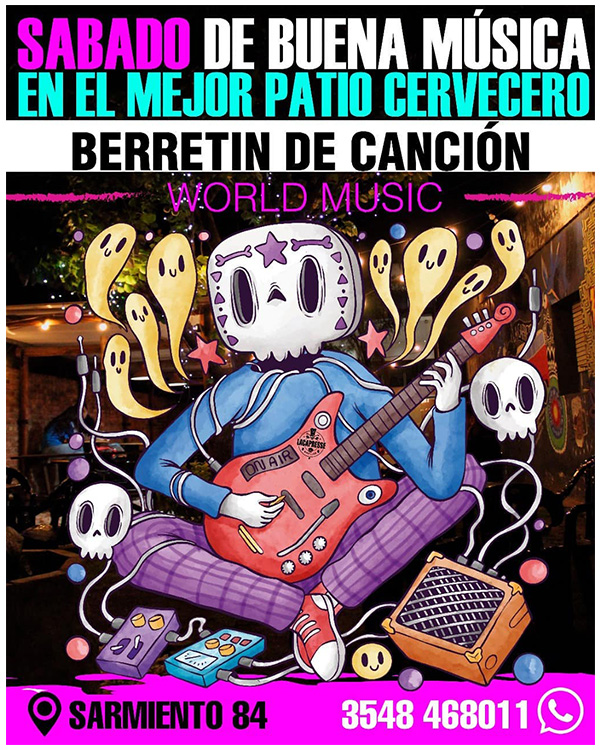
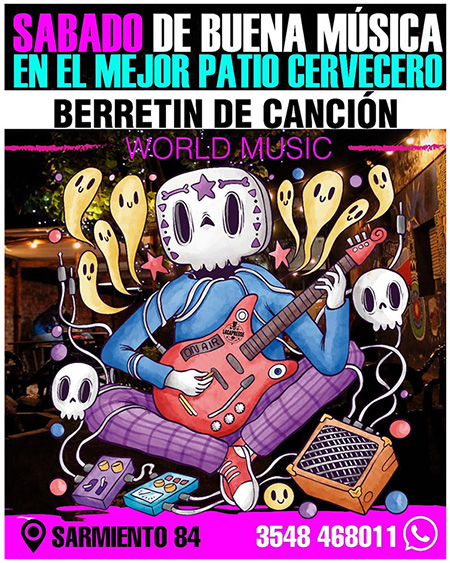
optimizacion de imagenes

diff --git a/pages/nosotros.html b/pages/nosotros.html
@@ -33,7 +33,7 @@
     </header>
     <main>
         <section class="cuerpoNosotros">
-            <img class="backNosotros" src="../assets/img/burguer2.png" alt="Hamburguesa en una tabla">
+            <img class="backNosotros" src="../assets/img/burguer2.jpg" alt="Hamburguesa en una tabla">
             <p>Somos una hamburguesería ubicada en la hermosa ciudad de La Falda, en la provincia de Córdoba. Somos reconocidos por nuestra deliciosa comida y un ambiente acogedor que te invita a disfrutar de una experiencia gastronómica única.<br>Además de ofrecer hamburguesas clásicas y gourmet, La Capresse también tiene en su menú una variedad de deliciosas opciones de pizzas, sanwiches y empanadas gourmet, preparados con ingredientes frescos y de alta calidad para garantizar una experiencia culinaria excepcional.<br>Pero eso no es todo lo que La Capresse tiene para ofrecer. Si buscas entretenimiento, este lugar es perfecto para vos. Todos los fines de semana, ofrecemos eventos de música en vivo, donde podrás disfrutar de tu comida favorita mientras escuchas a los mejores artistas locales.<br>Y si estás planeando un evento especial, también tenemos un food truck que puede acompañarte. Este camión de comida es ideal para bodas, fiestas de cumpleaños y cualquier otro evento en el que quieras sorprender a tus invitados con las mejores hamburguesas.<br><strong>Cocinamos con estilo, y sobre todo, cocinamos con pasión!</strong></p>
         </section>
     </main>

diff --git a/pages/eventos.html b/pages/eventos.html
@@ -44,7 +44,7 @@
                             <img src="../assets/img/rodri.jpg" class="d-block w-50 p-3" alt="Domingo 16/02 21:30hs Rodri Della Vedova en vivo">
                         </div>
                         <div class="carousel-item d-flex justify-content-center">
-                            <img src="../assets/img/Evento-DJ.png" class="d-block w-50 p-3"  alt="Sabado 12 21:30hs Fede borgognone en vivo">
+                            <img src="../assets/img/Evento-DJ.jpg" class="d-block w-50 p-3"  alt="Sabado 12 21:30hs Fede borgognone en vivo">
                         </div>
                         <div class="carousel-item d-flex justify-content-center">
                             <img src="../assets/img/berretin.jpg" class="d-block w-50 p-3" alt="Sabado 19 Musica en vivo - Berretin de cancion">

diff --git a/pages/sumate.html b/pages/sumate.html
@@ -33,7 +33,7 @@
     </header>
     <main>
         <section class="cuerpo">
-            <img class="backHome" src="../assets/img/Sin título-1.png" alt="Foto del equipo">
+            <img class="backHome" src="../assets/img/Sin título-1.jpg" alt="Foto del equipo">
             <h3>Sumate a nuestro equipo!</h3>
             <form action="#">
                 <input type="text" name="nombre" placeholder="Nombre Completo" required>

diff --git a/index.html b/index.html
@@ -33,7 +33,7 @@
     </header>
     <main>
         <section class="cuerpo">
-            <img class="backHome" src="./assets/img/Burguer.png" alt="Hamburguesa en una tabla">
+            <img class="backHome" src="./assets/img/Burguer.jpg" alt="Hamburguesa en una tabla">
             <ul>
                 <li>Restobar burger & beer</li>
                 <li>Tragos, música en un lugar único</li>
